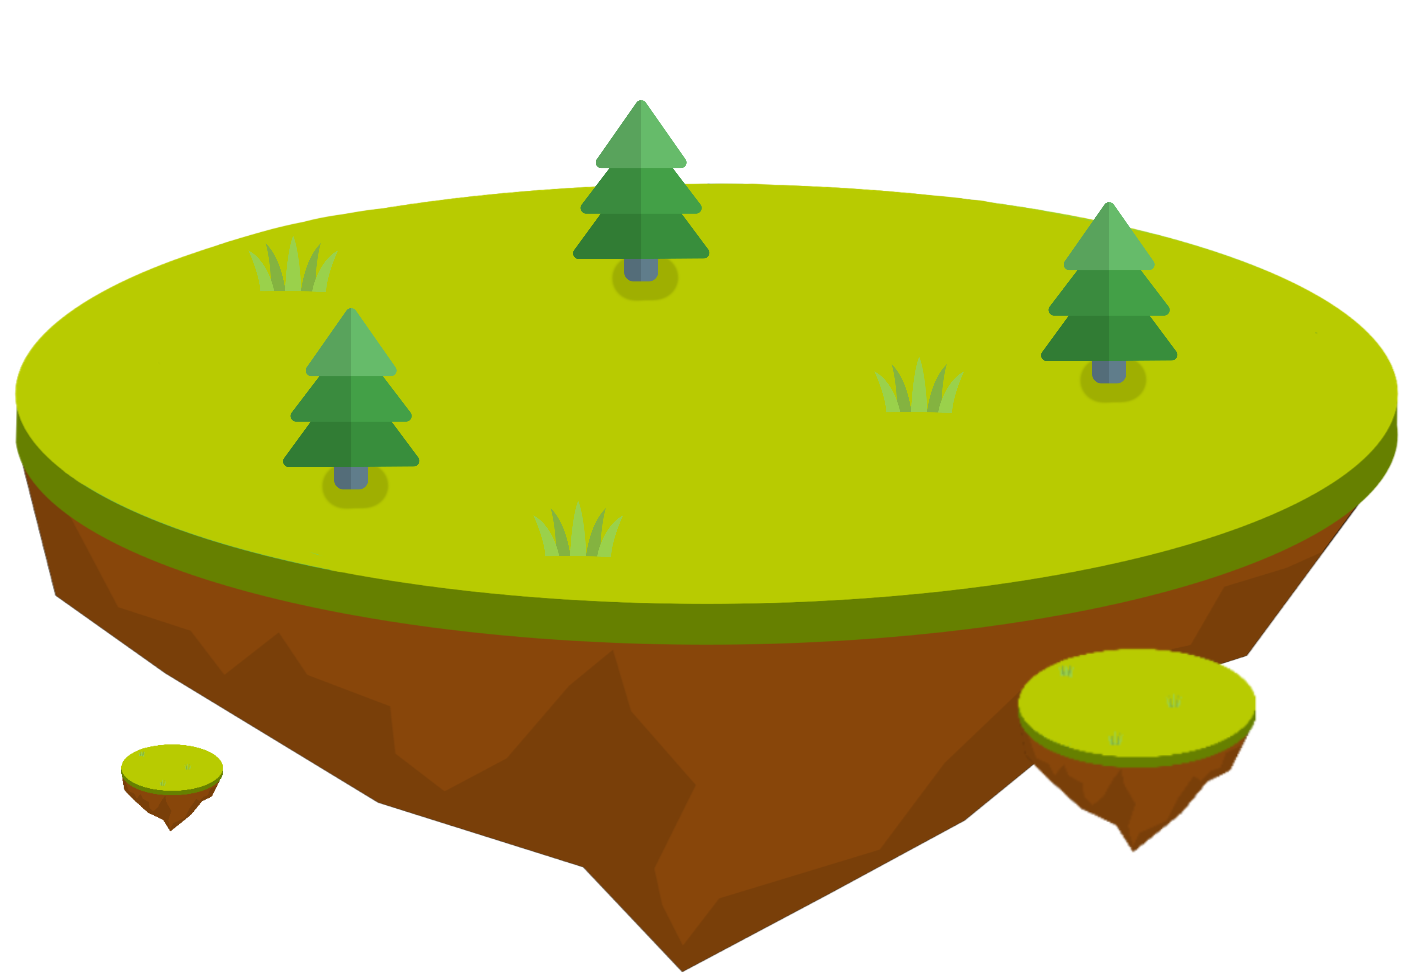
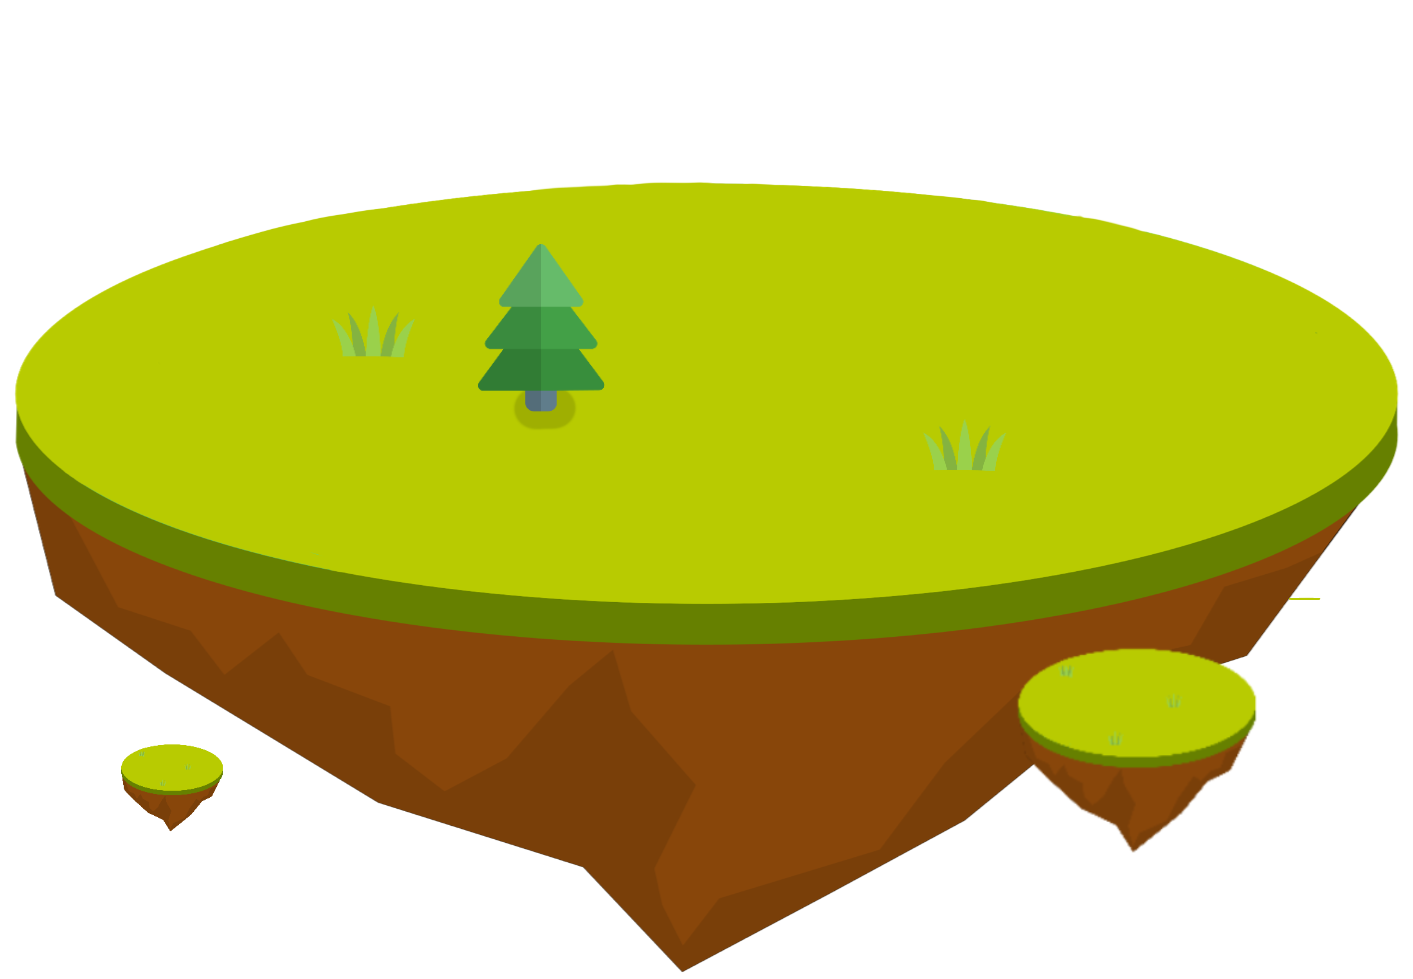
Update | land

diff --git a/src/pages/Profile.js b/src/pages/Profile.js
@@ -48,10 +48,11 @@ const GetLandUrl = (treeCount) => {
 
 const GetLevelUrl = (treeCount) => {
     let level;
-    if (treeCount < 10) level = 1
-    else if (treeCount < 100) level = 2;
-    else if (treeCount < 1000) level = 3;
-    else level = 4
+    if (treeCount === 0) level = 1;
+    else if (treeCount < 10) level = 2;
+    else if (treeCount < 100) level = 3;
+    else if (treeCount < 1000) level = 4;
+    else level = 5
     return `/images/level${level}.png`;
 }
 
